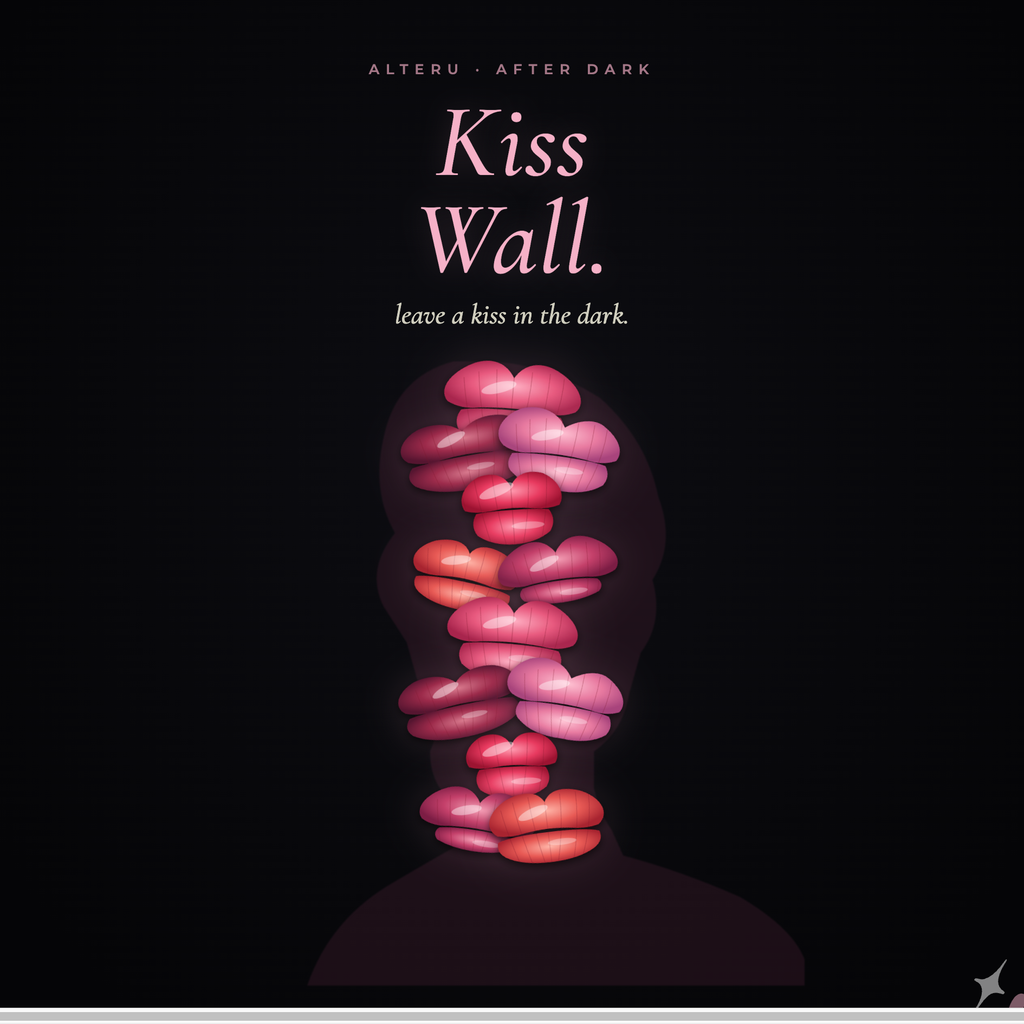
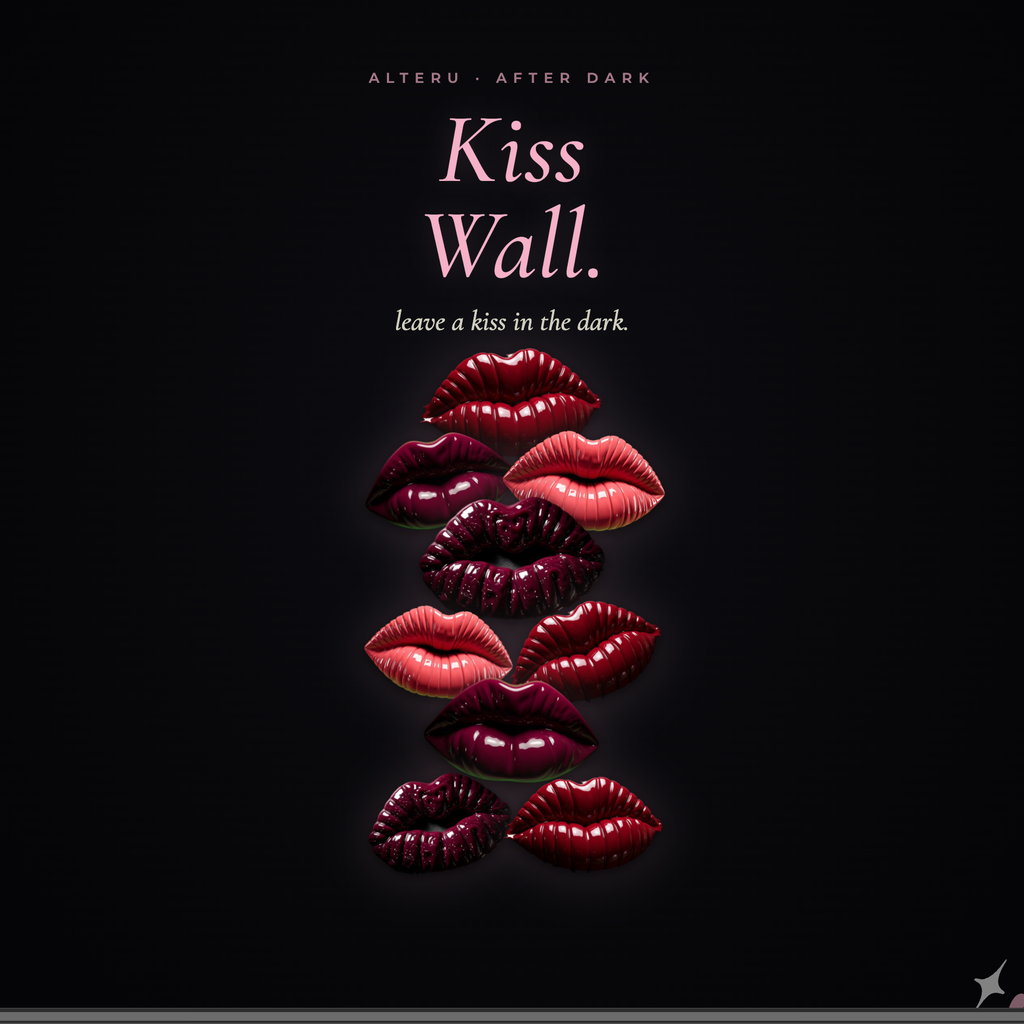
v2.7.1 — restore photoreal 3D lipstick poster
User feedback: the previous poster used SVG-rendered in-game elements
and lacked visual impact compared to an earlier 3D photoreal version.

Regen 4 sculpted glossy lipstick PNGs via wdabuliu (solid-shape ref +
original 'glossy 3D wax with dramatic lighting' prompts), saved as
public/poster-lip-{1..4}.png separately from in-game flat lips.
Updated build_poster.cjs to use them. New poster.png shows a vertical
stack of dark cherry-red 3D sculpted imprints with bust ghost behind.

Changed region(s): [[0.3438, 0.0625, 0.6562, 0.875], [0.0, 0.9688, 1.0, 1.0]]

diff --git a/gen_poster_lips.py b/gen_poster_lips.py
@@ -1,0 +1,128 @@
+#!/usr/bin/env python3
+"""
+Generate 4 photoreal 3D-sculpted lipstick imprint PNGs FOR THE POSTER ONLY.
+
+Uses the original gen_lips.py prompts (glossy 3D wax with dramatic lighting)
++ a solid-shape ref (not the smudgy one) so the model leans into the
+volumetric 3D look the user remembered as visually striking.
+
+These are SEPARATE from the in-game flat lips (lip-1..6.png) — stored as
+poster-lip-1..4.png so they don't conflict.
+
+Run: python3 gen_poster_lips.py
+"""
+
+import json
+import math
+import os
+import subprocess
+import sys
+import time
+import urllib.request
+import urllib.error
+
+from PIL import Image, ImageDraw, ImageFilter
+
+PUBLIC_DIR = "/Users/yin/code/games/kiss-wall/public"
+REF_PATH = "/Users/yin/code/games/kiss-wall/_refs/poster_lip_ref.png"
+API_URL = "http://aiservice.wdabuliu.com:8019/genl_image"
+API_TIMEOUT = 180
+USER_ID = "yin"
+REF_GH_URL = "https://raw.githubusercontent.com/yinxinghuan/kiss-wall/master/_refs/poster_lip_ref.png"
+
+PROMPTS = [
+    "ultra realistic close-up photo of a single cherry-red lipstick imprint pressed onto smooth dark paper, glossy 3D wax texture with sculptural volume, visible vertical lip lines as raised ridges, dramatic side lighting creating strong specular highlights and depth shadows, photoreal not render, very detailed, isolated single kiss mark, chroma key green background, studio lighting",
+    "macro photograph of a dark burgundy lipstick kiss mark on black paper, thick glossy waxy texture with strong 3D dimensional feel, lipstick wax forming raised ridges and sculptural depth, dramatic single key light from upper-left, photoreal, isolated single mark, chroma key green backdrop",
+    "high resolution photograph of a deep wine-red lipstick imprint with glossy plump 3D wax volume, lips pressed firmly leaving sculpted impression with visible depth and shine, dramatic chiaroscuro lighting, photoreal not 3d render, single isolated kiss mark, chroma key green background",
+    "ultra realistic photo of a vivid coral-pink lipstick kiss imprint with thick glossy wax ridges and dramatic dimensional 3D feel, sculptural volume, fine lip-line texture catching the light, dramatic side lighting, photoreal not render, isolated single mark, chroma key green background",
+]
+
+
+def draw_solid_ref(path: str) -> None:
+    """Draw a solid red lip shape on green chroma — the original ref that
+    pushed the model toward sculpted 3D lipstick output."""
+    W, H = 768, 512
+    img = Image.new("RGB", (W, H), (0, 255, 0))  # pure green chroma
+    d = ImageDraw.Draw(img)
+    cx, cy = W // 2, H // 2
+    rx, ry = 220, 130
+    # upper lip — two arcs forming a heart-with-flat-bottom
+    d.pieslice((cx - rx, cy - ry - 30, cx - 20, cy + 40), 180, 360, fill=(180, 18, 38))
+    d.pieslice((cx + 20, cy - ry - 30, cx + rx, cy + 40), 180, 360, fill=(180, 18, 38))
+    d.polygon([(cx - rx, cy - 20), (cx + rx, cy - 20), (cx + rx, cy + 10), (cx, cy + 30), (cx - rx, cy + 10)], fill=(180, 18, 38))
+    # lower lip — wide solid oval
+    d.ellipse((cx - rx - 10, cy + 5, cx + rx + 10, cy + ry + 40), fill=(170, 20, 38))
+    os.makedirs(os.path.dirname(path), exist_ok=True)
+    img.save(path, "PNG")
+    print(f"  ref → {path}")
+
+
+def call_api(ref_url, prompt, max_retries=3):
+    payload = json.dumps({
+        "query": "",
+        "params": {"url": ref_url, "prompt": prompt, "user_id": USER_ID},
+    }).encode()
+    for attempt in range(max_retries):
+        req = urllib.request.Request(API_URL, data=payload,
+                                     headers={"Content-Type": "application/json"},
+                                     method="POST")
+        try:
+            with urllib.request.urlopen(req, timeout=API_TIMEOUT) as resp:
+                r = json.loads(resp.read())
+        except urllib.error.HTTPError as e:
+            body = e.read().decode()
+            try: r = json.loads(body)
+            except: return None
+        except (TimeoutError, urllib.error.URLError) as e:
+            print(f"  ⏳ network/timeout (attempt {attempt+1}/{max_retries}): {e}")
+            if attempt < max_retries - 1:
+                time.sleep(30); continue
+            return None
+        code = r.get("code")
+        if code == 200: return r["url"]
+        if code == 429:
+            print("  ⏳ rate limit, 80s…"); time.sleep(80); continue
+        print(f"  ✗ API code={code} body={r}")
+        if attempt < max_retries - 1: time.sleep(15); continue
+        return None
+    return None
+
+
+def download(url, out):
+    req = urllib.request.Request(url, headers={"User-Agent": "Mozilla/5.0"})
+    with urllib.request.urlopen(req, timeout=30) as resp:
+        data = resp.read()
+    tmp = out + ".tmp"
+    with open(tmp, "wb") as f: f.write(data)
+    subprocess.run(["sips","-s","format","png",tmp,"--out",out], check=True, capture_output=True)
+    os.remove(tmp)
+
+
+def main():
+    if "--gen" not in sys.argv:
+        draw_solid_ref(REF_PATH)
+        print(f"\nNow push _refs/poster_lip_ref.png to GitHub, then re-run with --gen")
+        return
+
+    ref_url = REF_GH_URL
+    print(f"using ref → {ref_url}\n")
+    for i, prompt in enumerate(PROMPTS, start=1):
+        out = f"{PUBLIC_DIR}/poster-lip-{i}.png"
+        if os.path.exists(out):
+            print(f"[{i}] skip (exists)")
+            continue
+        print(f"[{i}/{len(PROMPTS)}] {prompt[:80]}…")
+        url = call_api(ref_url, prompt)
+        if url:
+            download(url, out)
+            print(f"  ✓ {out}")
+        else:
+            print(f"  ✗ failed for {out}")
+        if i < len(PROMPTS):
+            print("  ⏳ 80s rate-limit…")
+            time.sleep(80)
+    print("\nDone. Run rembg post-process next.")
+
+
+if __name__ == "__main__":
+    main()
